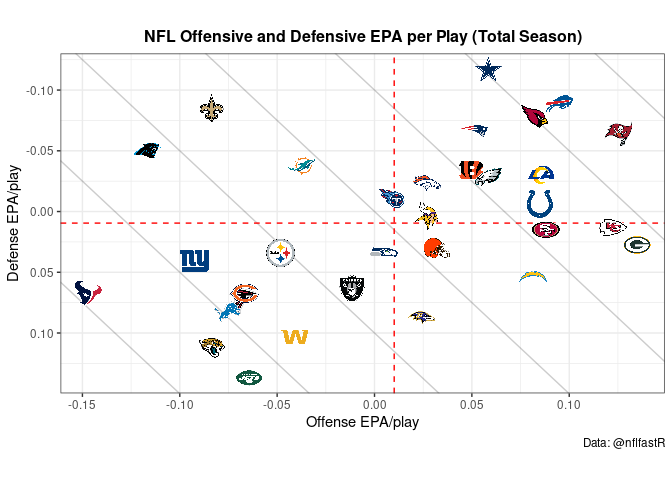
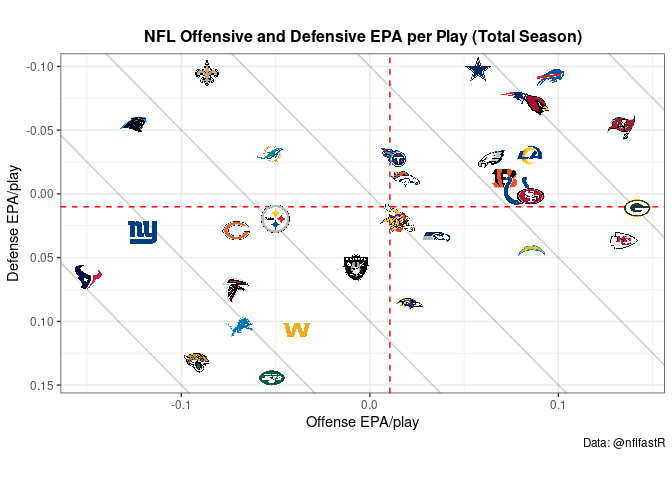
2022-01-04

diff --git a/NFL-Report.md b/NFL-Report.md
@@ -1,5 +1,5 @@
 
-# NFL Landscape: Week 16
+# NFL Landscape: Week 17
 
 ### Overall Efficiency Landscape
 
